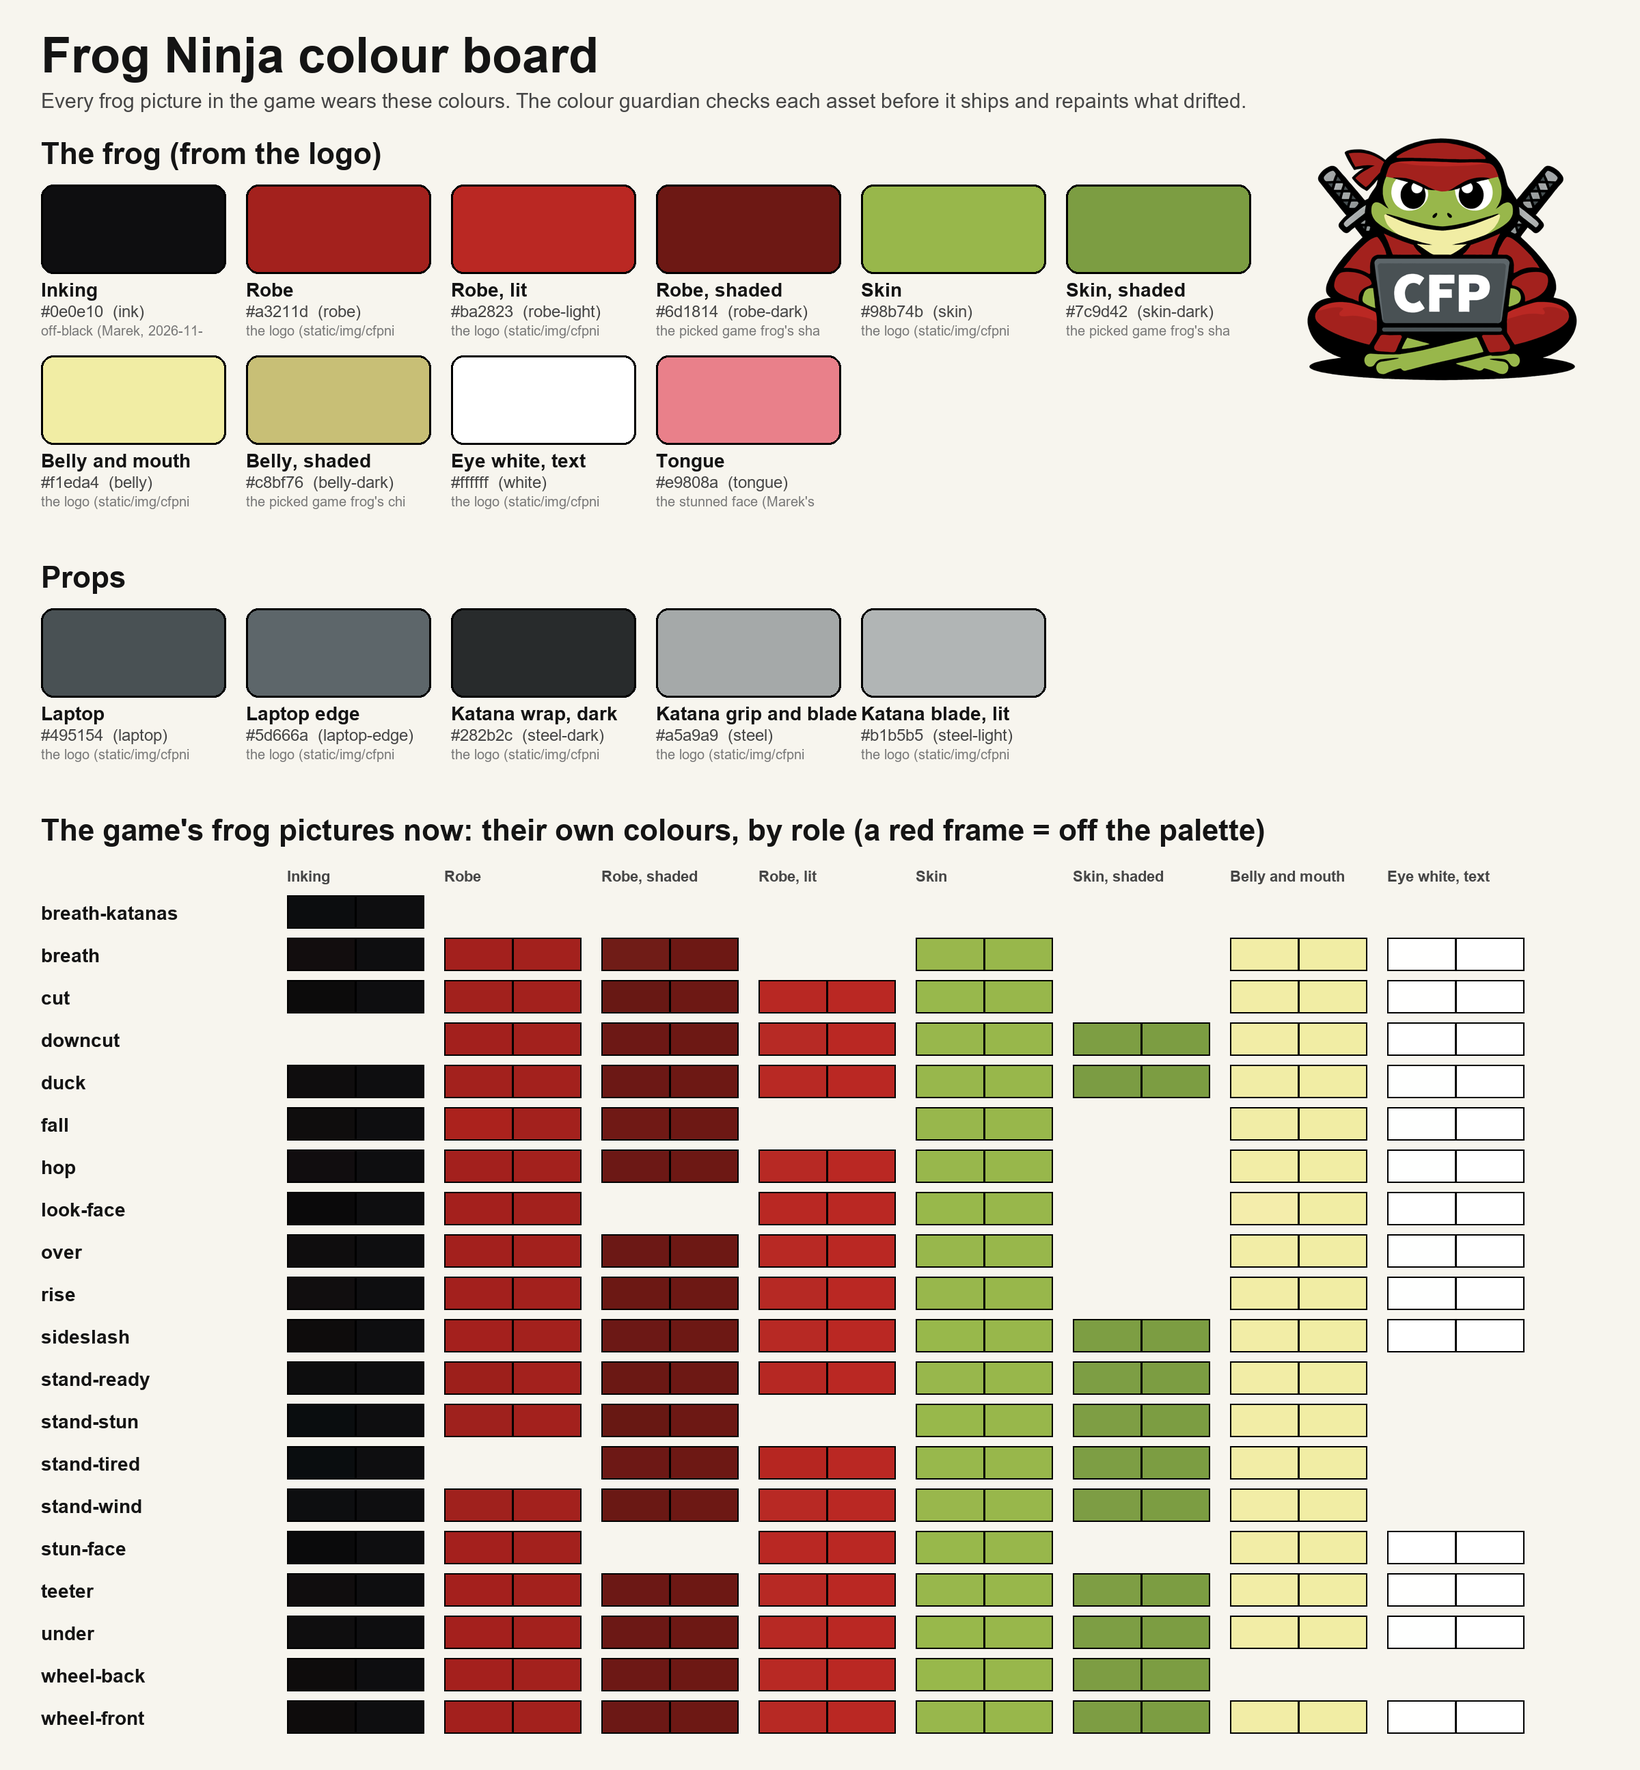
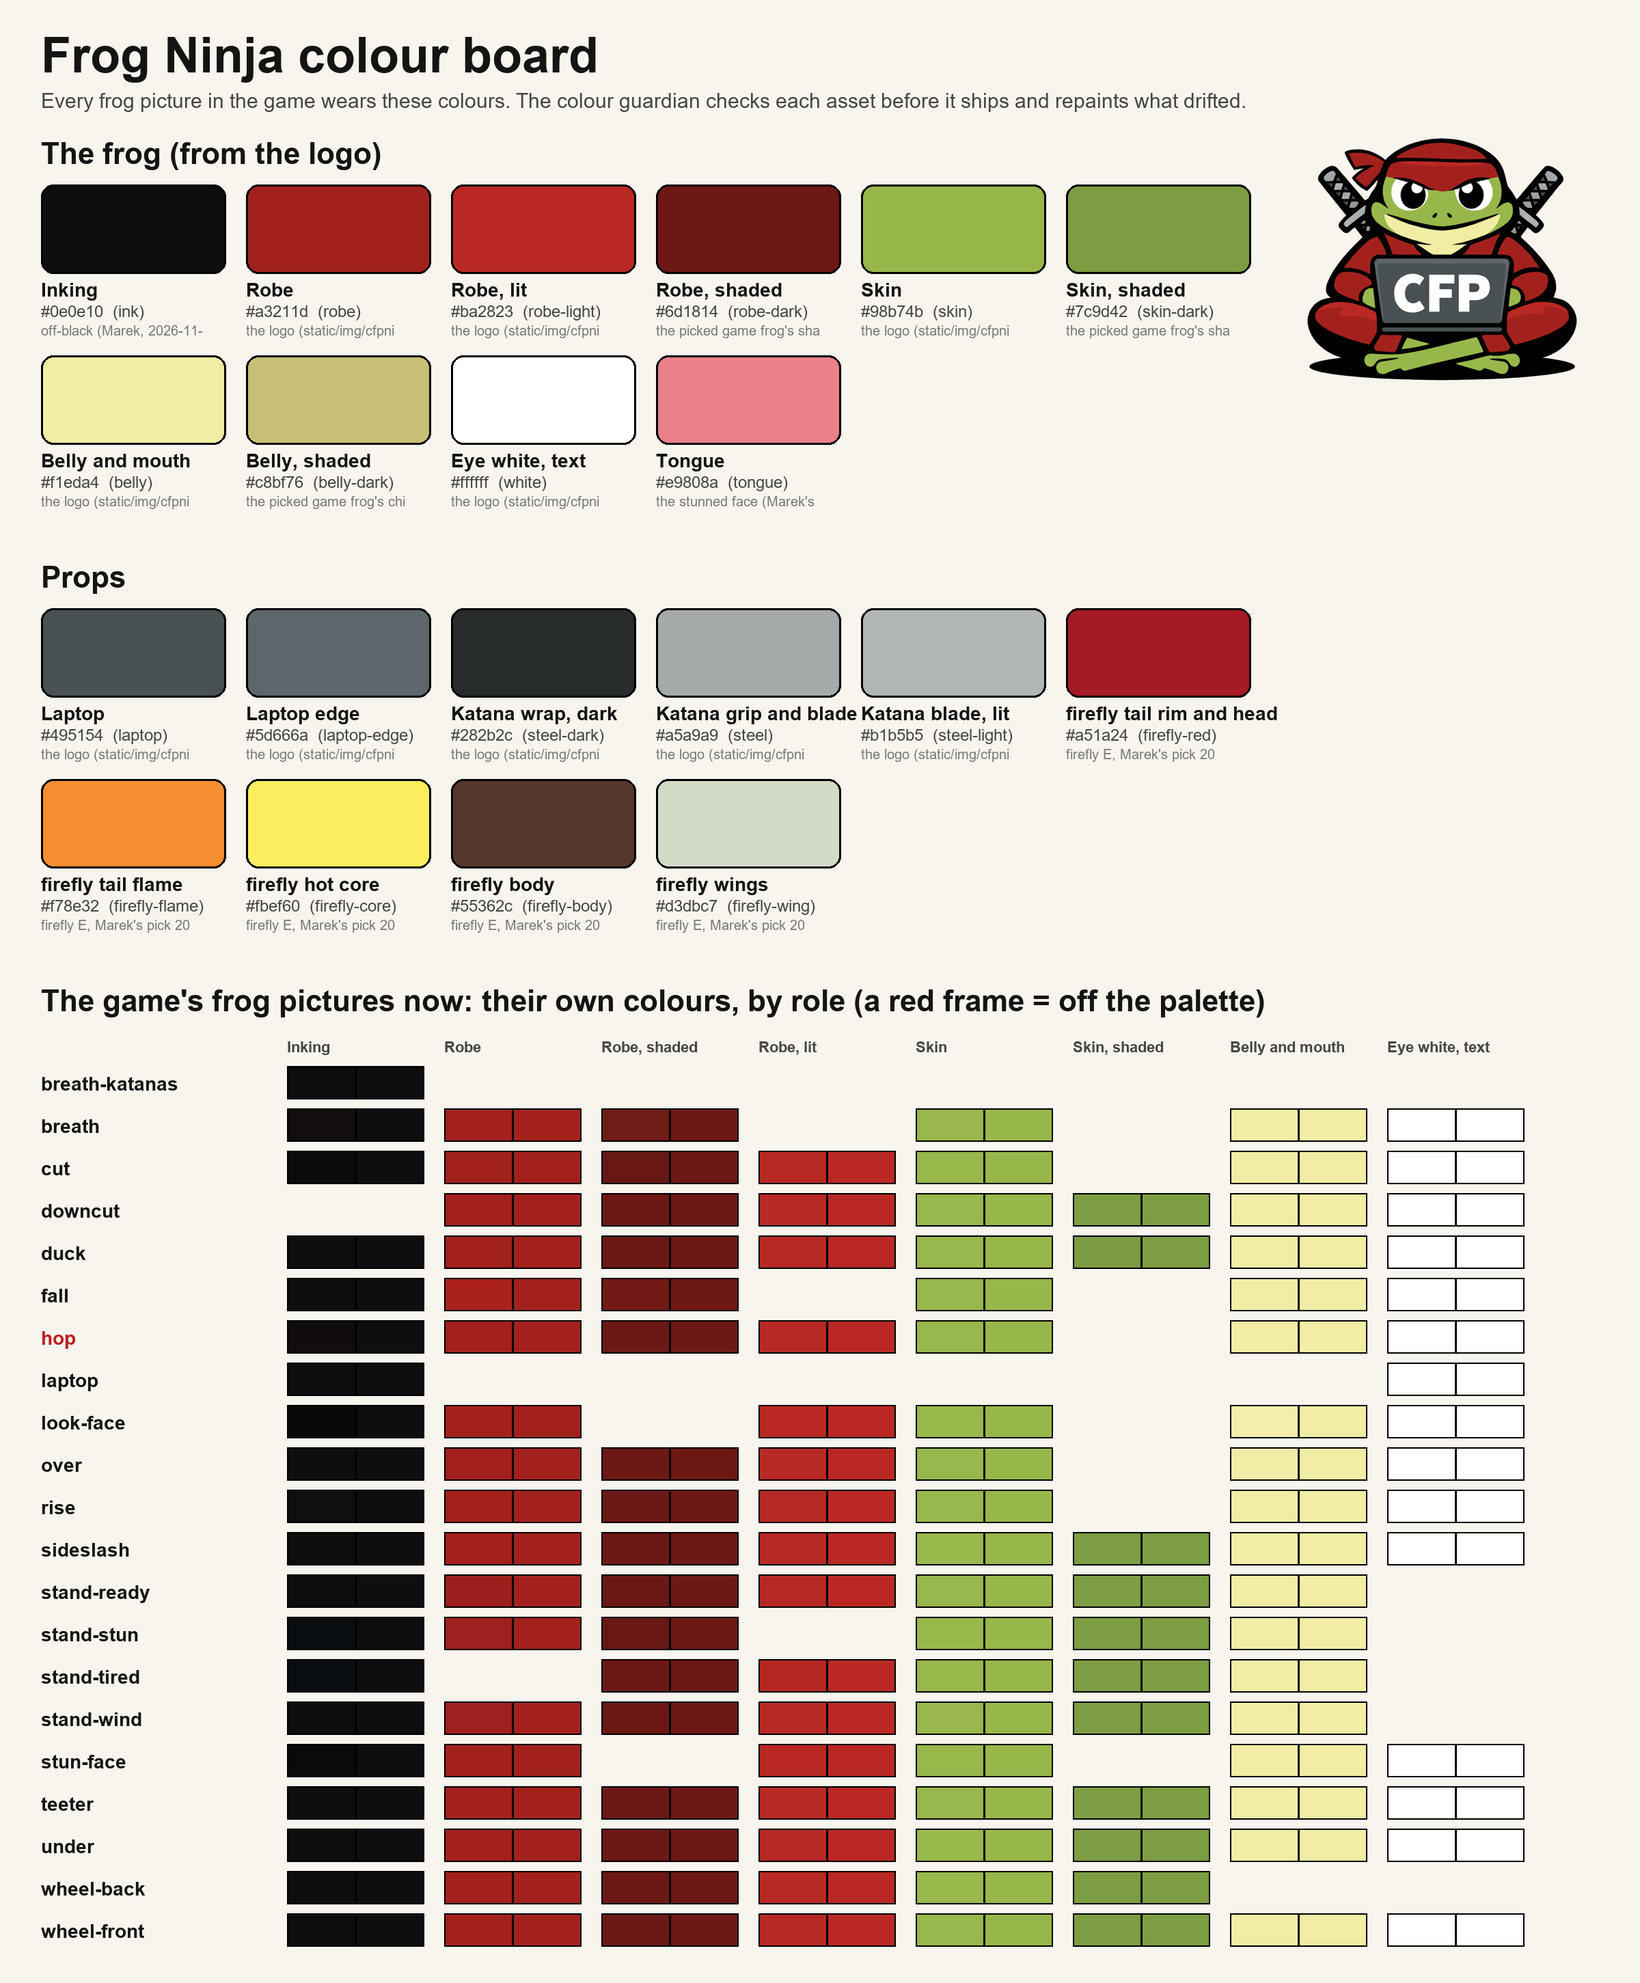
Frog Ninja: the firefly is painted (Marek's pick 'firefly E': a big fiery-red glowing tail), two wing frames, a warm-to-red glow; colours in the palette

Changed region(s): [[0.0, 0.0, 0.9688, 0.9884], [0.0312, 0.6486, 0.0938, 0.9884]]

diff --git a/static/js/views/frog-game.js b/static/js/views/frog-game.js
@@ -1087,11 +1087,38 @@ function glow(ctx, x, y, r, rgb, a) {
 }
 const GLOWS = {};
 
+// The firefly, painted (Marek's pick 'firefly E', 2026-11-24: a big fiery-red glowing tail): wings up and wings down,
+// laid on one another. Sizes in s (the fly's size); at = the anchor in the pictures' px. ?art=old: the drawing below.
+// FLY_ART:begin (written by design/frog/tools/art_build_fly.py: do not edit by hand)
+const FLY_ART = { px: 110, size: [396, 366], at: [188.8, 190.3], tail: [-0.87, 0.33, 0.81], core: [-0.54, 0.28], frames: {
+    up: '/img/game/fly/up.624c468aa2.webp',
+    down: '/img/game/fly/down.51ba4b1f0c.webp',
+} };
+// FLY_ART:end
+const flyArt = { ready: false, img: {} };
+const FLY_ON = typeof Image !== 'undefined' && !/[?&]art=old/.test(typeof location === 'undefined' ? '' : location.search);
+if (FLY_ON) {
+    const all = Object.entries(FLY_ART.frames);
+    Promise.all(all.map(([k, u]) => new Promise(ok => { const i = new Image(); i.onload = () => { flyArt.img[k] = i; ok(); }; i.onerror = ok; i.src = u; })))
+        .then(() => { flyArt.ready = all.every(([k]) => flyArt.img[k]); });
+}
+
 function drawFly(ctx, fl, s, t) {
     // a firefly: dark body, red head, flapping wings, a pulsing glowing tail
     ctx.save(); ctx.translate(fl.x, fl.y); ctx.rotate(fl.dir < 0 ? Math.PI : 0); ctx.scale(1, fl.dir < 0 ? -1 : 1);
     const flap = Math.abs(Math.sin(t * 55 + fl.phase));
     const pulse = 0.65 + 0.35 * Math.sin(t * 6 + fl.phase);
+    if (flyArt.ready) {
+        // the glow around the burning tail (warm near it, fiery red further out), the picture, then the core breathing on top
+        const [tx, ty, tr] = FLY_ART.tail, [cx, cy] = FLY_ART.core, k = s / FLY_ART.px;
+        glow(ctx, tx * s, ty * s, s * 5, '255,40,16', 0.85);
+        glow(ctx, tx * s, ty * s, s * 2.6, '255,150,40', 0.6 + 0.3 * pulse);
+        ctx.drawImage(flyArt.img[flap > 0.5 ? 'up' : 'down'], -FLY_ART.at[0] * k, -FLY_ART.at[1] * k, FLY_ART.size[0] * k, FLY_ART.size[1] * k);
+        const was = ctx.globalCompositeOperation; ctx.globalCompositeOperation = 'lighter';
+        glow(ctx, cx * s, cy * s, tr * s * 0.75, '255,200,90', 0.12 + 0.28 * pulse);
+        ctx.globalCompositeOperation = was;
+        ctx.restore(); return;
+    }
     ctx.save();
     glow(ctx, -s * 0.75, 0, s * 4.6, '255,23,23', 0.9);                   // a strong red glow
     glow(ctx, -s * 0.75, 0, s * 2.2, '255,82,60', 0.75 + 0.25 * pulse);
@@ -1182,13 +1209,13 @@ const LAPTOP_ART = { url: '/img/game/frog/laptop.2b28d644d0.webp', size: [642, 3
 // LAPTOP_ART:end
 const laptopArt = { img: null };
 if (typeof Image !== 'undefined' && !/[?&]art=old/.test(typeof location === 'undefined' ? '' : location.search)) { const i = new Image(); i.onload = () => { laptopArt.img = i; }; i.src = LAPTOP_ART.url; }
-// An icon of the seagull or the laptop is painted before their pictures have loaded: paint it again once they are in
+// An icon of the seagull, the laptop or the firefly is painted before their pictures have loaded: paint it again once they are in
 // (Marek, 2026-11-24: the debug tray still showed the old seagull). paint(x) draws the icon on a fresh context.
 function iconWhenArt(c, k, paint) {
     const x0 = c.getContext('2d'); x0.save(); paint(x0); x0.restore();
-    if ((gullArt.ready || !ART.frog) && laptopArt.img) return;
+    if ((gullArt.ready || !ART.frog) && laptopArt.img && (flyArt.ready || !FLY_ON)) return;
     let n = 0; const t = setInterval(() => {
-        const done = (gullArt.ready || !ART.frog) && laptopArt.img;
+        const done = (gullArt.ready || !ART.frog) && laptopArt.img && (flyArt.ready || !FLY_ON);
         if (done || ++n > 60) { clearInterval(t); if (!done) return; const x = c.getContext('2d'); x.save(); x.setTransform(1, 0, 0, 1, 0, 0); x.clearRect(0, 0, c.width, c.height); x.scale(k, k); paint(x); x.restore(); }
     }, 250);
 }
@@ -1736,7 +1763,7 @@ export function mountFrogGame(stage, opts = {}) {
         const prep = c => { c.width = S * k; c.height = S * k; c.style.width = c.style.height = S + 'px'; const x = c.getContext('2d'); x.scale(k, k); return x; };
         stage.querySelectorAll('canvas[data-icon]').forEach(c => {
             const x = prep(c), kind = c.dataset.icon;
-            if (kind === 'fly') drawFly(x, { x: S / 2 + 4, y: S / 2, dir: 1, phase: 0 }, 9, 0.26);
+            if (kind === 'fly') iconWhenArt(c, k, g => drawFly(g, { x: S / 2 + 2, y: S / 2, dir: 1, phase: 0 }, 8, 0.26));
             else if (kind === 'crate') { x.translate(S / 2, S / 2 + 1); drawCrate(x, 17, 1.6); }
             else if (kind === 'fireworks') drawFireworks(x, { x: S / 2, y: S / 2 - 2, r: 13, rot: 0, t: 0 }, 1.6);
             else if (kind === 'laptop') iconWhenArt(c, k, g => drawLaptop(g, { x: S / 2, y: S / 2, r: 14, rot: 0 }, 1.6));
@@ -1761,12 +1788,15 @@ export function mountFrogGame(stage, opts = {}) {
                 x.fillStyle = C.steel; x.beginPath(); x.rect(-L * 0.05, -L * 0.94, L * 0.1, L * 0.28); x.fill(); x.stroke();
                 x.restore();
             } else if (kind === 'tongue') {
-                const x = big(c, 96, 72), line = w => { x.lineWidth = w; x.beginPath(); x.moveTo(8, 66); x.quadraticCurveTo(40, 58, 62, 30); x.stroke(); };
-                x.lineCap = 'round'; x.strokeStyle = '#000'; line(12); x.strokeStyle = '#e57373'; line(8.5);
-                x.fillStyle = '#ef9a9a'; x.strokeStyle = '#000'; x.lineWidth = 1.6; x.beginPath(); x.arc(62, 30, 8, 0, 7); x.fill(); x.stroke();
-                drawFly(x, { x: 66, y: 27, dir: 1, phase: 0 }, 6.5, 0.26);
-            } else {
-                const x = big(c, 176, 84); x.translate(0, 8); const at = (px, py, fn) => { x.save(); x.translate(px, py); fn(); x.restore(); };
+                big(c, 96, 72);
+                iconWhenArt(c, k, x => {
+                    const line = w => { x.lineWidth = w; x.beginPath(); x.moveTo(8, 66); x.quadraticCurveTo(40, 58, 62, 30); x.stroke(); };
+                    x.lineJoin = 'round'; x.lineCap = 'round'; x.strokeStyle = '#000'; line(12); x.strokeStyle = '#e57373'; line(8.5);
+                    x.fillStyle = '#ef9a9a'; x.strokeStyle = '#000'; x.lineWidth = 1.6; x.beginPath(); x.arc(62, 30, 8, 0, 7); x.fill(); x.stroke();
+                    drawFly(x, { x: 66, y: 27, dir: 1, phase: 0 }, 6.5, 0.26);
+                });
+            } else big(c, 176, 84), iconWhenArt(c, k, x => {
+                x.lineJoin = 'round'; x.translate(0, 8); const at = (px, py, fn) => { x.save(); x.translate(px, py); fn(); x.restore(); };
                 const fr = kindOf => FRUITS.find(t => t.kind === kindOf) || FRUITS[0];
                 at(40, 46, () => drawWhole(x, { type: fr('watermelon') }, 26, 2));
                 at(96, 34, () => drawWhole(x, { type: fr('pineapple') }, 21, 2));
@@ -1777,7 +1807,7 @@ export function mountFrogGame(stage, opts = {}) {
                 drawSake(x, { x: 160, y: 24, r: 14, rot: 0.25, t: 0 }, 2);
                 drawFireworks(x, { x: 66, y: 22, r: 12, rot: -0.3, t: 0 }, 1.6);
                 drawFly(x, { x: 124, y: 20, dir: 1, phase: 0 }, 5, 0.26);
-            }
+            });
         });
         const seen = new Set(), box = stage.querySelector('.fg-fruits');
         FRUITS.slice().sort((a, b) => a.r - b.r).forEach(t => {
@@ -4070,7 +4100,7 @@ export function mountFrogGame(stage, opts = {}) {
         // cut in half: the halves fly apart, then drop
         const nx = -Math.sin(ang), ny = Math.cos(ang);
         [1, -1].forEach(sd => bit(f.x, f.y, ctx => {
-            ctx.beginPath(); ctx.rect(sd > 0 ? 0 : -f.s * 3, -f.s * 3, f.s * 3, f.s * 6); ctx.clip();
+            ctx.beginPath(); ctx.rect(sd > 0 ? 0 : -f.s * 4, -f.s * 4, f.s * 4, f.s * 8); ctx.clip();
             drawFly(ctx, { x: 0, y: 0, dir: f.dir, phase: f.phase }, f.s, 0);
         }, { vx: nx * H * 0.15 * sd, vy: ny * H * 0.15 * sd - H * 0.1, rot: 0, spin: sd * rand(4, 8) }));
         splash(f.x, f.y, '#eeff41', 8, 3);
@@ -6308,7 +6338,7 @@ export function mountFrogGame(stage, opts = {}) {
             const x = c.getContext('2d'); x.scale(k, k);
             const [kind, name] = c.dataset.spawn.split(':');
             if (kind === 'fruit') { const t = FRUITS.find(f => f.kind === name); x.translate(S / 2, S / 2 + 3); drawWhole(x, { type: t }, lerp(7, 15, sizeK(t)) * ICON_K(name), 2); }
-            else if (kind === 'fly') drawFly(x, { x: S / 2 + 4, y: S / 2, dir: 1, phase: 0 }, 9, 0.26);
+            else if (kind === 'fly') iconWhenArt(c, k, g => drawFly(g, { x: S / 2 + 2, y: S / 2, dir: 1, phase: 0 }, 8, 0.26));
             else if (kind === 'clock') drawClock(x, { x: S / 2, y: S / 2 + 2, r: 14, rot: 0, t: 0.3 }, 2);
             else if (kind === 'sake') drawSake(x, { x: S / 2, y: S / 2 + 3, r: 14, rot: 0, t: 0 }, 2);
             else if (kind === 'fireworks') drawFireworks(x, { x: S / 2, y: S / 2 - 2, r: 13, rot: 0, t: 0 }, 1.6);

diff --git a/design/frog/tools/art_build_fly.py b/design/frog/tools/art_build_fly.py
@@ -1,0 +1,90 @@
+#!/usr/bin/env python3
+"""The firefly (the fire power-up), painted: Marek's pick 'firefly E' (2026-11-24, round 2 "more fiery red").
+
+    python art_build_fly.py [--sheet out.png]
+
+Reads design/frog/art/sources/firefly/up.png (the pick: wings raised) and down.png (the same bug, wings swung down, made
+from the pick with qwen_edit.py). Each is cut off its magenta ground and put in the frog's ink. The down frame came out of
+the model a little smaller and moved, so it is laid onto the up frame by its two red parts (the tail's rim and the head):
+both frames then share one size and one anchor, and the bug does not jump while it flaps.
+
+Sizes are in s, the firefly's size in the game (its catch area is unchanged): the tail's middle and the head's middle are
+SPAN s apart; the anchor (the game's fl.x, fl.y) is halfway between them. Writes static/img/game/fly/<frame>.<hash>.webp
+and the FLY_ART table in frog-game.js (tail = middle and radius of the glowing tail, core = its hot middle, in s).
+"""
+import argparse, hashlib, io, os, re
+import numpy as np
+from PIL import Image
+from scipy import ndimage
+from art_build_gull import FROG, REPO, JS
+from art_build_gang import keyed, inked
+
+SRC = os.path.join(FROG, 'art', 'sources', 'firefly'); OUT = os.path.join(REPO, 'static', 'img', 'game', 'fly')
+SPAN = 2.3          # s from the tail's middle to the head's middle (the old drawing: 1.55 s, with a much smaller tail)
+PX = 110            # pixels per s in the built pictures
+
+
+def parts(img):
+    """the middles of the tail and the head (the two biggest red patches: the tail's rim and the head), the tail's radius
+    (the round tail: its red, orange and yellow together) and its hot core (the yellow)"""
+    A = np.asarray(img).astype(int); al = A[..., 3] > 128; R, G, B = A[..., 0], A[..., 1], A[..., 2]
+    red = al & (R > 130) & (G < 80) & (B < 80)
+    lab, n = ndimage.label(ndimage.binary_closing(red, iterations=2)); sz = ndimage.sum(red, lab, range(1, n + 1))
+    a, b = (np.argsort(sz)[::-1][:2] + 1)
+    ca, cb = ndimage.center_of_mass(red, lab, a), ndimage.center_of_mass(red, lab, b)
+    tail, head = (ca, cb) if ca[1] < cb[1] else (cb, ca)          # the tail is behind (left: the bug faces right)
+    fire = al & (R > 120) & (B < 110) & (R - B > 70)                # the tail's dark red rim, orange and yellow
+    lt, _ = ndimage.label(fire); k = lt[int(tail[0]), int(tail[1])]
+    if k == 0: ty, tx = tail
+    else: ty, tx = ndimage.center_of_mass(lt == k)
+    hot = al & (R > 220) & (G > 200) & (B < 150)
+    ys, xs = np.nonzero(hot & (np.hypot(np.arange(A.shape[0])[:, None] - ty, np.arange(A.shape[1])[None] - tx) < 400))
+    core = (ys.mean(), xs.mean()) if ys.size else (ty, tx)
+    area = (lt == k).sum() if k else 0
+    return np.array(tail[::-1]), np.array(head[::-1]), np.array((tx, ty)), (area / np.pi) ** 0.5, np.array(core[::-1])
+
+
+def main():
+    ap = argparse.ArgumentParser(); ap.add_argument('--sheet', default=''); a = ap.parse_args()
+    os.makedirs(OUT, exist_ok=True)
+    up = inked(keyed(os.path.join(SRC, 'up.png'), 'fly')); dn = inked(keyed(os.path.join(SRC, 'down.png'), 'fly'))
+    t0, h0, tc, tr, core = parts(up); t1, h1, *_ = parts(dn)
+    k = np.linalg.norm(h0 - t0) / np.linalg.norm(h1 - t1)            # the down frame onto the up frame
+    dn = dn.resize((round(dn.width * k), round(dn.height * k)), Image.LANCZOS)
+    off = np.round((t0 + h0) / 2 - (t1 + h1) / 2 * k).astype(int)
+    W, H = up.width, up.height
+    big = Image.new('RGBA', (W * 2, H * 2), (0, 0, 0, 0)); big.alpha_composite(dn, (int(W // 2 + off[0]), int(H // 2 + off[1])))
+    dn = big.crop((W // 2, H // 2, W // 2 + W, H // 2 + H))
+    box = up.getbbox(); b2 = dn.getbbox()
+    box = (min(box[0], b2[0]), min(box[1], b2[1]), max(box[2], b2[2]), max(box[3], b2[3]))
+    s = float(PX * SPAN / np.linalg.norm(h0 - t0))                         # picture px -> built px
+    anchor = (t0 + h0) / 2
+    rows = []; built = {}
+    for name, img in (('up', up), ('down', dn)):
+        im = img.crop(box); im = im.resize((round(im.width * s), round(im.height * s)), Image.LANCZOS)
+        b = io.BytesIO(); im.save(b, 'WEBP', quality=90, method=6); data = b.getvalue()
+        fn = f'{name}.{hashlib.sha256(data).hexdigest()[:10]}.webp'
+        for old in os.listdir(OUT):
+            if old.startswith(name + '.') and old != fn: os.remove(os.path.join(OUT, old))
+        open(os.path.join(OUT, fn), 'wb').write(data); built[name] = im
+        rows.append(f"    {name}: '/img/game/fly/{fn}',")
+        print(f'{name:5} {im.width}x{im.height}  {len(data) // 1024} kB')
+    at = ((anchor[0] - box[0]) * s, (anchor[1] - box[1]) * s)
+    u = lambda p: [round(float(p[0] - anchor[0]) / PX * s, 2), round(float(p[1] - anchor[1]) / PX * s, 2)]
+    tail = u(tc) + [round(float(tr) * s / PX, 2)]
+    block = ('// FLY_ART:begin (written by design/frog/tools/art_build_fly.py: do not edit by hand)\n'
+             f'const FLY_ART = {{ px: {PX}, size: [{built["up"].width}, {built["up"].height}], at: [{at[0]:.1f}, {at[1]:.1f}], tail: {tail}, core: {u(core)}, frames: {{\n'
+             + '\n'.join(rows) + '\n} };\n// FLY_ART:end')
+    print(block)
+    src = open(JS, encoding='utf-8').read(); s2, n = re.subn(r'// FLY_ART:begin.*?// FLY_ART:end', lambda m: block, src, flags=re.S)
+    if n != 1: raise SystemExit('frog-game.js has no FLY_ART markers')
+    open(JS, 'w', encoding='utf-8', newline='\n').write(s2)
+    if a.sheet:
+        sh = Image.new('RGBA', (900, 300), (22, 62, 86, 255))
+        for i, im in enumerate(built.values()):
+            sh.alpha_composite(im, (20 + i * 440, 20))
+        sh.convert('RGB').save(a.sheet); print(a.sheet)
+
+
+if __name__ == '__main__':
+    main()

diff --git a/design/frog/ASSETS.md b/design/frog/ASSETS.md
@@ -77,7 +77,7 @@ That is 12 elements x 8 fruits. 2.3-2.5 are the "sliced in three different spots
 
 | # | Element | Notes | Status |
 |---|---|---|---|
-| 3.1 | Firefly | flying loop (wings), red glow; caught on the tongue; cut in half | placeholder |
+| 3.1 | Firefly | Marek's pick 'firefly E' (2026-11-24, round 2 "more fiery red"): a big round tail burning red, orange and a hot yellow core, red head with the frog's heavy brow, brown body, two see-through wings. Painted, two frames (wings up, wings down, laid on one another), built by `art_build_fly.py` from `art/sources/firefly/`; the glow around it and the core's pulse are drawn by the game. Caught on the tongue; cut in half. Colours in `palette.json` props (firefly-*) | in game |
 | 3.2 | Golden sake | bottle, tumbling; glow; smashed into shards and a splash | placeholder |
 | 3.3 | Alarm clock | tumbling, ringing; glow; broken into bells, gears, hands, spring | placeholder |
 | 3.4 | Fireworks bundle | five rockets, each a different rainbow colour, lit fuse | placeholder |
